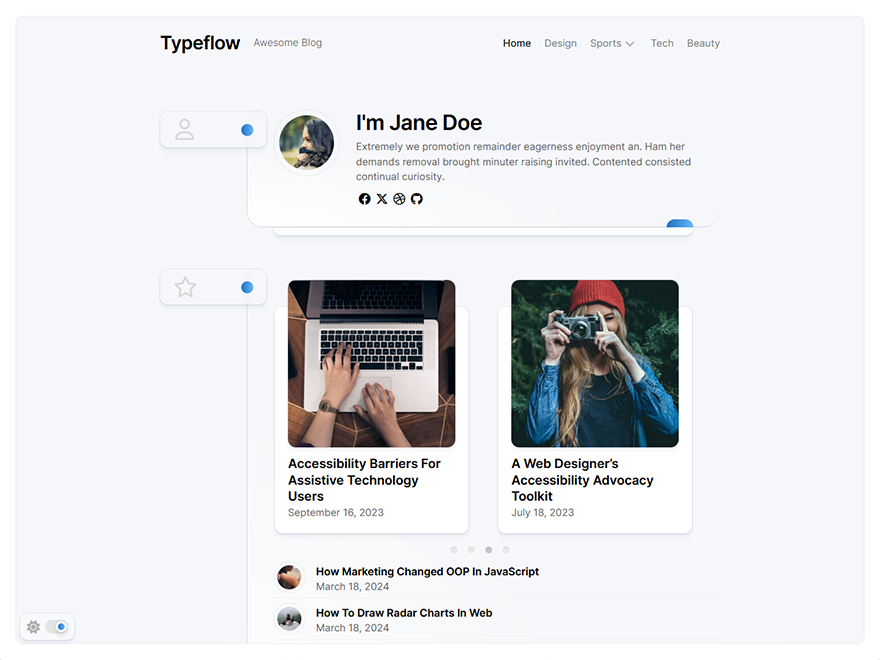
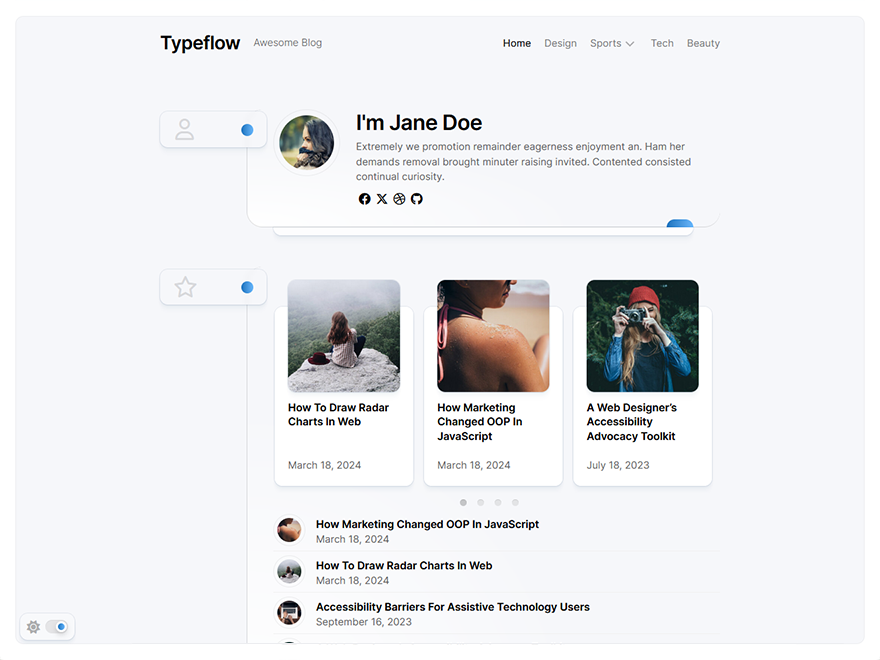
Increase home carousel to 3 visible entries instead of 2

Changed region(s): [[0.3068, 0.4242, 0.7977, 0.8182], [0.3068, 0.8485, 0.675, 0.9697]]

diff --git a/style.css b/style.css
@@ -468,17 +468,17 @@ body { background: #fff; }
 .intro-card-title { font-weight: 600; font-size: 32px; line-height: 1.2; letter-spacing: -0.02em; margin-bottom: 6px; }
 
 .featured-large { padding-bottom: 12px; }
-.featured-card-large { margin-right: 40px; margin-top: 60px; }
+.featured-card-large { margin-right: 12px; margin-top: 60px; }
 .featured-card-large-inner { background: #fff; margin: 2px 2px 10px 2px; padding: 20px; border-radius: 12px; box-shadow: 0 0 0 1px #12376914,0 1px 1px #1237690a,0 3px 3px #12376908,0 6px 4px #12376905,0 11px 4px #12376903; }
 .featured-card-large img { display: block; border-radius: 12px; }
 .featured-card-large-thumb { background: #fff; display: block; background-position: center; background-size: cover; aspect-ratio: 1/1; border-radius: 12px; margin: -60px auto 12px; box-shadow: 0 0 0 1px #12376914,0 1px 1px #1237690a,0 3px 3px #12376908,0 6px 4px #12376905,0 11px 4px #12376903; }
 .featured-card-large-thumb i { color: rgba(0,0,0,0.2); font-size: 32px; width: 100%; margin-top: 44%; }
-.feaured-large-title { font-size: 19px; font-weight: 600; line-height: 1.3em; min-height: 74px; max-height: 74px; overflow: hidden; }
+.feaured-large-title { font-size: 16px; font-weight: 600; line-height: 1.35em; min-height: 86px; max-height: 86px; overflow: hidden; }
 
 .slick-featured .slick-dotted.slick-slider { margin-bottom: 20px; }
-.slick-featured .slick-dots { bottom: -30px; padding-right: 40px; box-sizing: border-box; }
+.slick-featured .slick-dots { bottom: -30px; padding-right: 12px; box-sizing: border-box; }
 .slick-featured .slick-dots li { margin: 0 3px; }
-.slick-featured .slick-dots li button { background: rgba(0,0,0,0.06); box-shadow: inset 0 1px 0 rgba(0,0,0,0.1); height: 10px; width: 10px; border-radius: 100%; text-indent: -9999px; overflow: hidden; }
+.slick-featured .slick-dots li button { background: rgba(0,0,0,0.08); box-shadow: inset 0 1px 0 rgba(0,0,0,0.1); height: 10px; width: 10px; border-radius: 100%; text-indent: -9999px; overflow: hidden; }
 .slick-featured .slick-dots .slick-active button { background: rgba(0,0,0,0.2); }
 
 .featured-card { border-bottom: 1px solid #f1f1f1; position: relative; padding-bottom: 6px; margin-bottom: 6px; }

diff --git a/responsive.css b/responsive.css
@@ -42,7 +42,7 @@
 	
 	.stickywrap .stickywrap-inner { padding-right: 40px; }
 	
-	.featured-card-large { margin-right: 0; margin-top: 41px; }
+	.featured-card-large { margin-top: 41px; }
 	
 	.comment-tabs { font-size: 14px; }
 	.commentlist li { font-size: 13px; }
@@ -56,6 +56,10 @@
 	
 	#footer { padding: 40px; }
 	
+}
+
+@media only screen and (max-width: 620px) {
+	.featured-card-large { margin-right: 0; }
 }
 
 @media only screen and (max-width: 479px) {
@@ -80,6 +84,8 @@
 	.intro-card-right { text-align: center; }
 	.intro-card-thumb { margin: 0 auto; }
 	.intro-card-title { font-size: 24px; margin-top: 12px; }
+	
+	.feaured-large-title { font-size: 19px; min-height: 76px; max-height: 76px; }
 	
 	.blog-card { margin-bottom: 20px; padding-bottom: 10px; }
 	.blog-card-inner { padding-left: 64px; }

diff --git a/js/scripts.js b/js/scripts.js
@@ -89,13 +89,19 @@ jQuery(document).ready(function($) {
 	};
 
 	$(".slick-posts").randomize().slick({
-	  slidesToShow: 2,
+	  slidesToShow: 3,
 	  appendArrows: '.slick-posts-nav',
 	  dots: true,
 	  arrows: false,
 	  responsive: [
+	    {
+		  breakpoint: 920,
+		  settings: {
+			slidesToShow: 2
+		  }
+		},
 		{
-		  breakpoint: 719,
+		  breakpoint: 620,
 		  settings: {
 			slidesToShow: 1
 		  }
